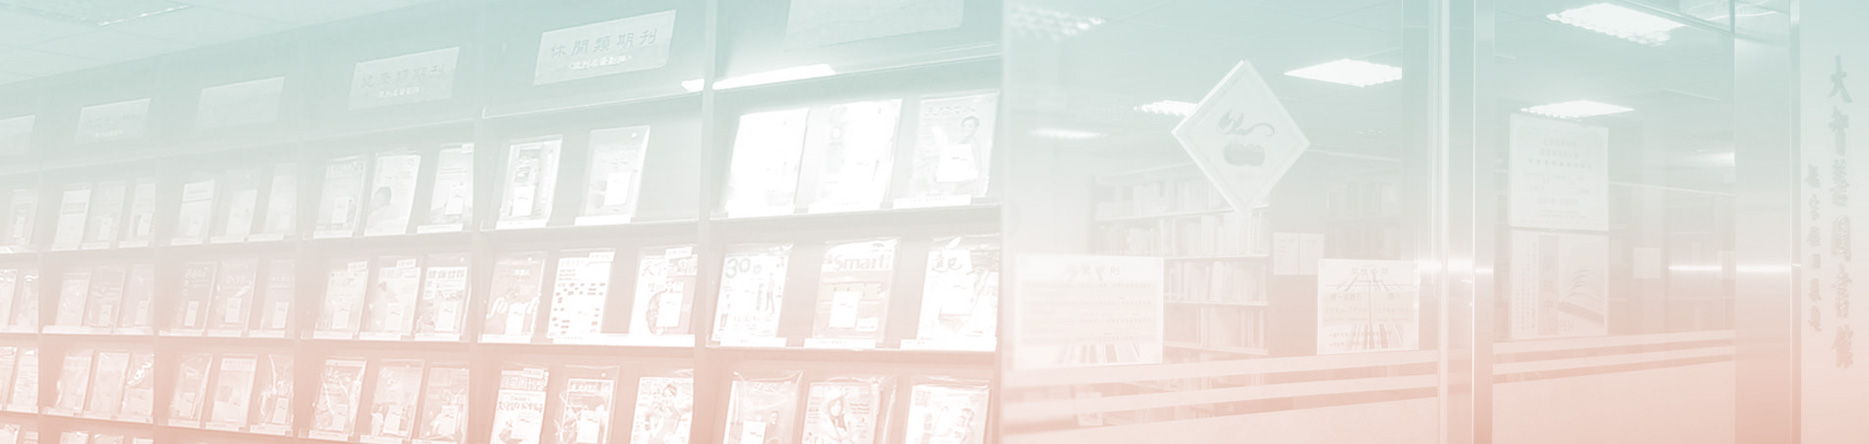
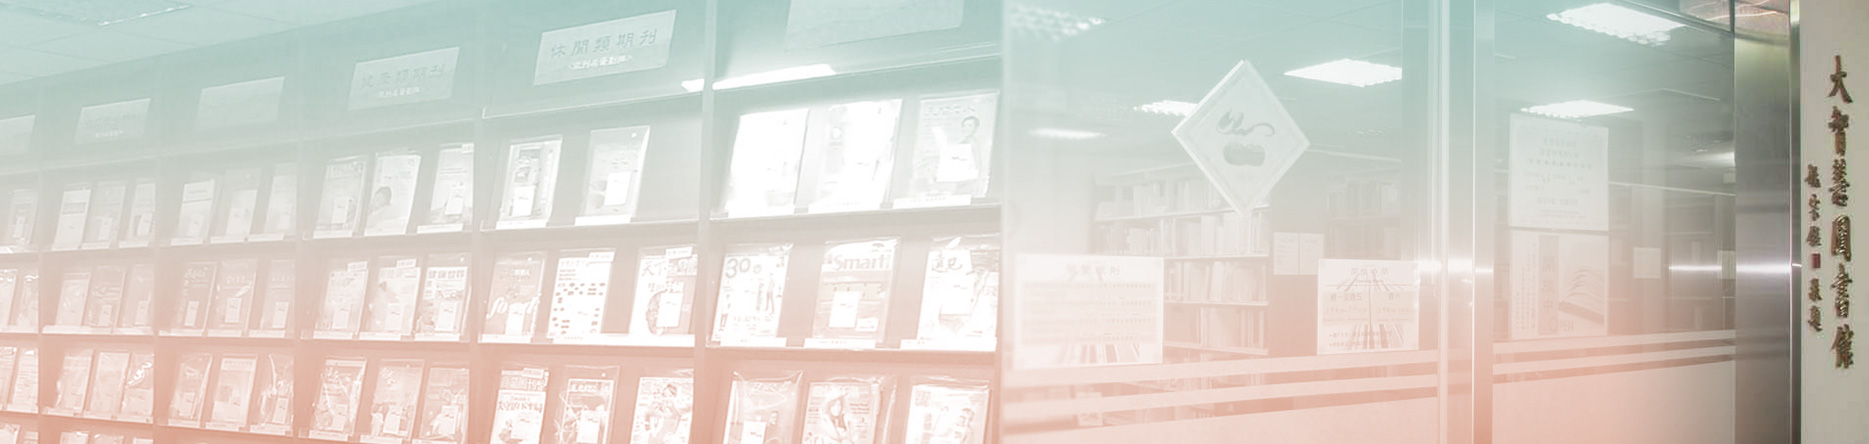
0609

diff --git a/css/style.css b/css/style.css
@@ -197,6 +197,11 @@ ol.listDecimalRow.badge>li:before {background: #4996ad;}
 .logo {display: flex;}
 .logo img {max-height: 30px;}
 
+.bg_img>.uk-cover-background {
+  background-position-x: right;
+  background-position-y: 30%;
+}
+
 footer, footer a {color: white !important;}
 
 /* Uikit Style
